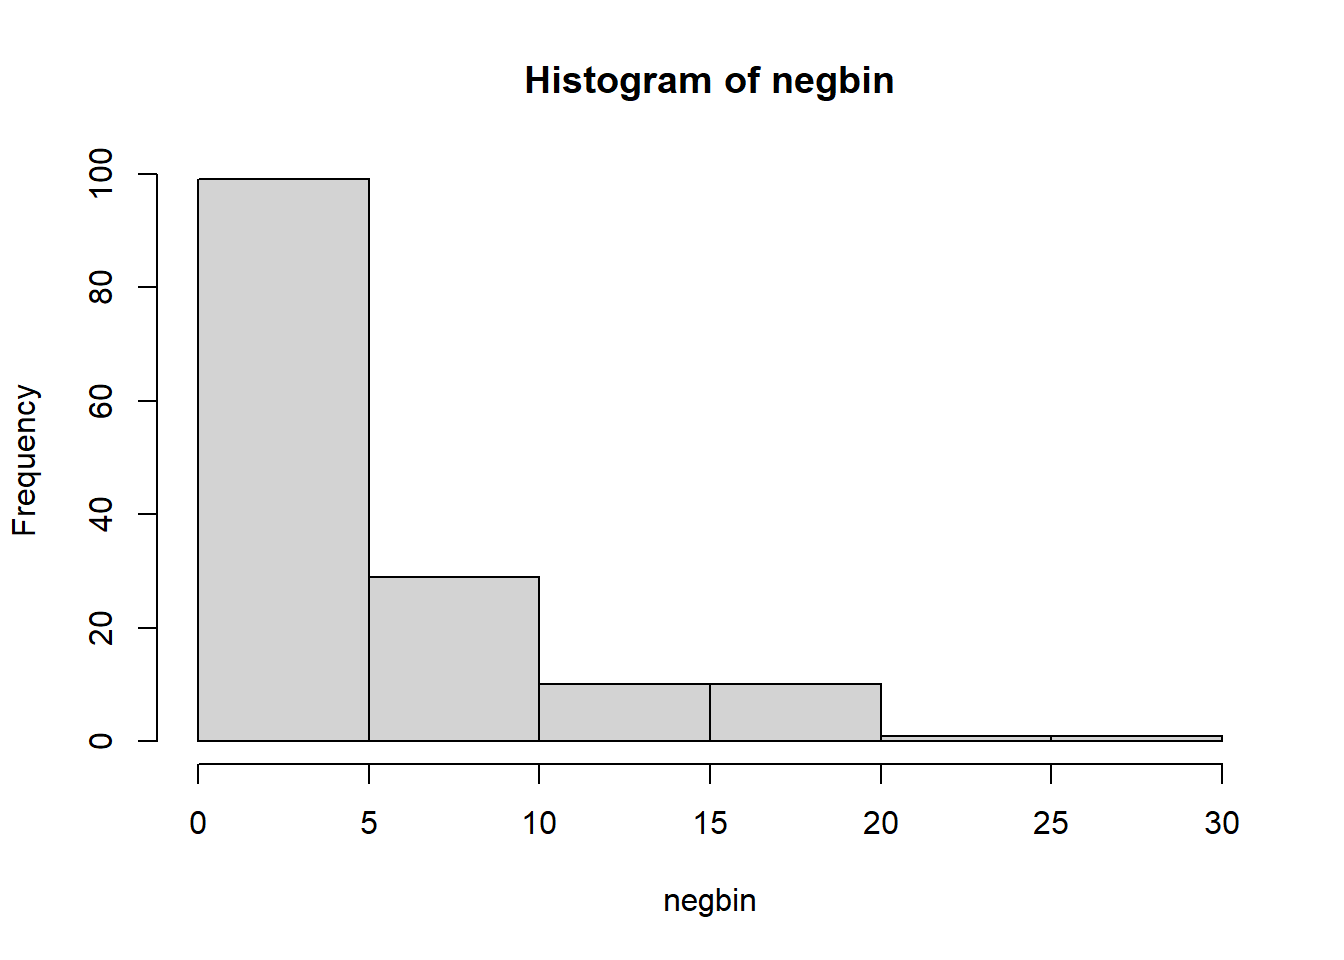
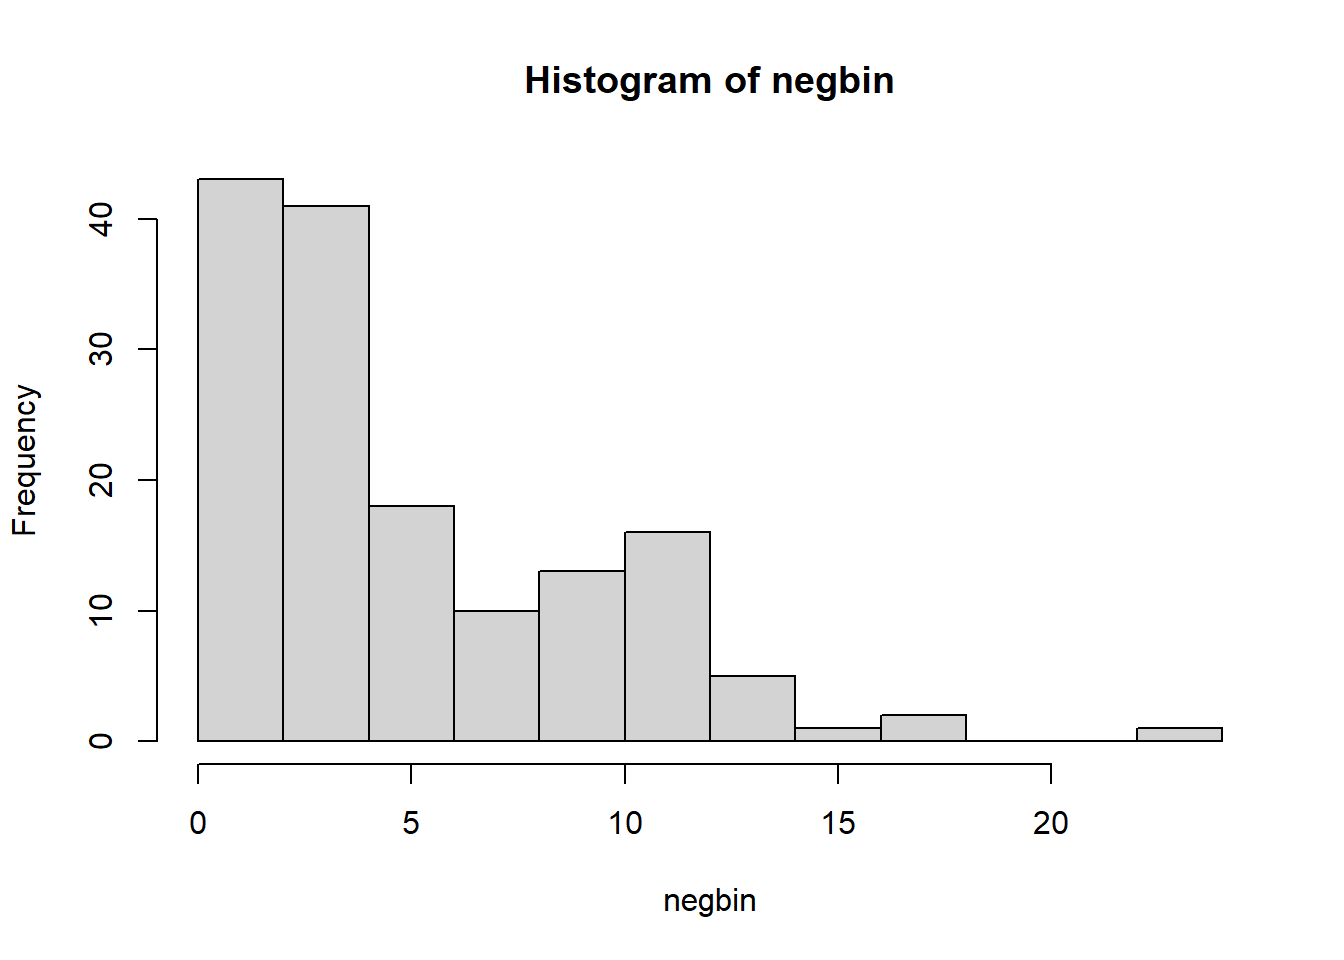
Built site for gh-pages

diff --git a/z6_learnR.html b/z6_learnR.html
@@ -1006,17 +1006,17 @@ BIC-corrected          2.182454 model1 &gt; model2 0.0145380</code></pre>
 <div class="sourceCode cell-code" id="cb43"><pre class="sourceCode r code-with-copy"><code class="sourceCode r"><span id="cb43-1"><a href="#cb43-1" aria-hidden="true" tabindex="-1"></a><span class="fu">summary</span>(pois)</span></code><button title="Copy to Clipboard" class="code-copy-button"><i class="bi"></i></button></pre></div>
 <div class="cell-output cell-output-stdout">
 <pre><code>   Min. 1st Qu.  Median    Mean 3rd Qu.    Max. 
-  1.000   3.000   5.000   4.947   6.000  13.000 </code></pre>
+   0.00    3.00    5.00    5.08    7.00   12.00 </code></pre>
 </div>
 <div class="sourceCode cell-code" id="cb45"><pre class="sourceCode r code-with-copy"><code class="sourceCode r"><span id="cb45-1"><a href="#cb45-1" aria-hidden="true" tabindex="-1"></a><span class="fu">summary</span>(pois0)</span></code><button title="Copy to Clipboard" class="code-copy-button"><i class="bi"></i></button></pre></div>
 <div class="cell-output cell-output-stdout">
 <pre><code>   Min. 1st Qu.  Median    Mean 3rd Qu.    Max. 
-  0.000   3.000   5.000   4.913   7.000  11.000 </code></pre>
+  0.000   3.000   5.000   5.053   7.000  15.000 </code></pre>
 </div>
 <div class="sourceCode cell-code" id="cb47"><pre class="sourceCode r code-with-copy"><code class="sourceCode r"><span id="cb47-1"><a href="#cb47-1" aria-hidden="true" tabindex="-1"></a><span class="fu">summary</span>(negbin)</span></code><button title="Copy to Clipboard" class="code-copy-button"><i class="bi"></i></button></pre></div>
 <div class="cell-output cell-output-stdout">
 <pre><code>   Min. 1st Qu.  Median    Mean 3rd Qu.    Max. 
-   0.00    1.25    3.00    5.34    8.00   27.00 </code></pre>
+   0.00    2.00    4.00    5.34    8.75   23.00 </code></pre>
 </div>
 </div>
 </section>
